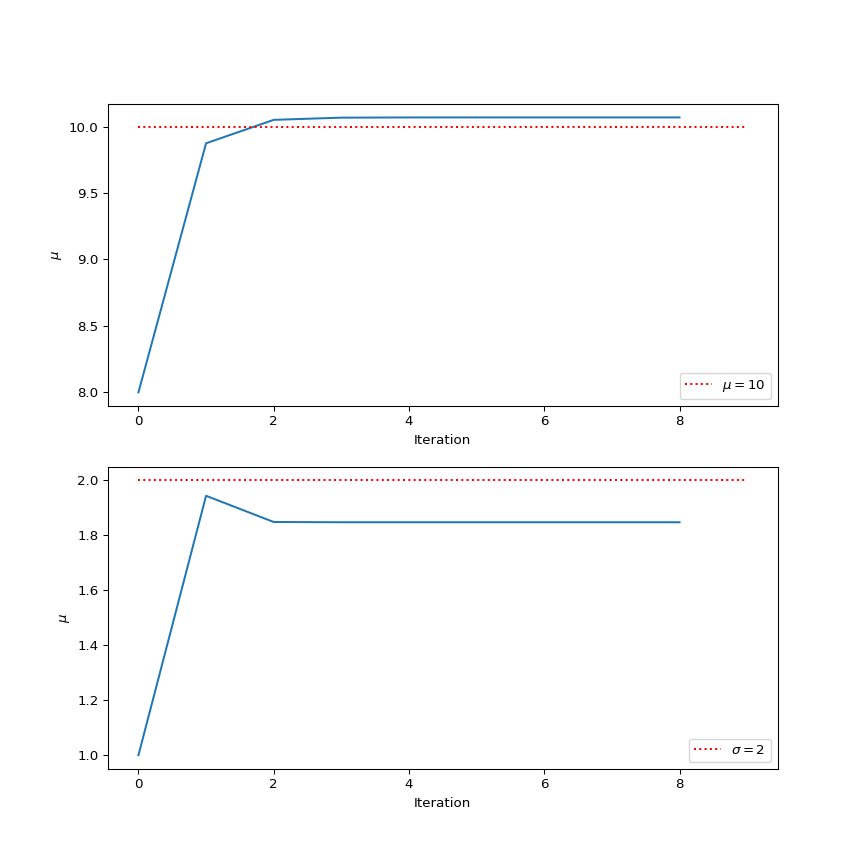
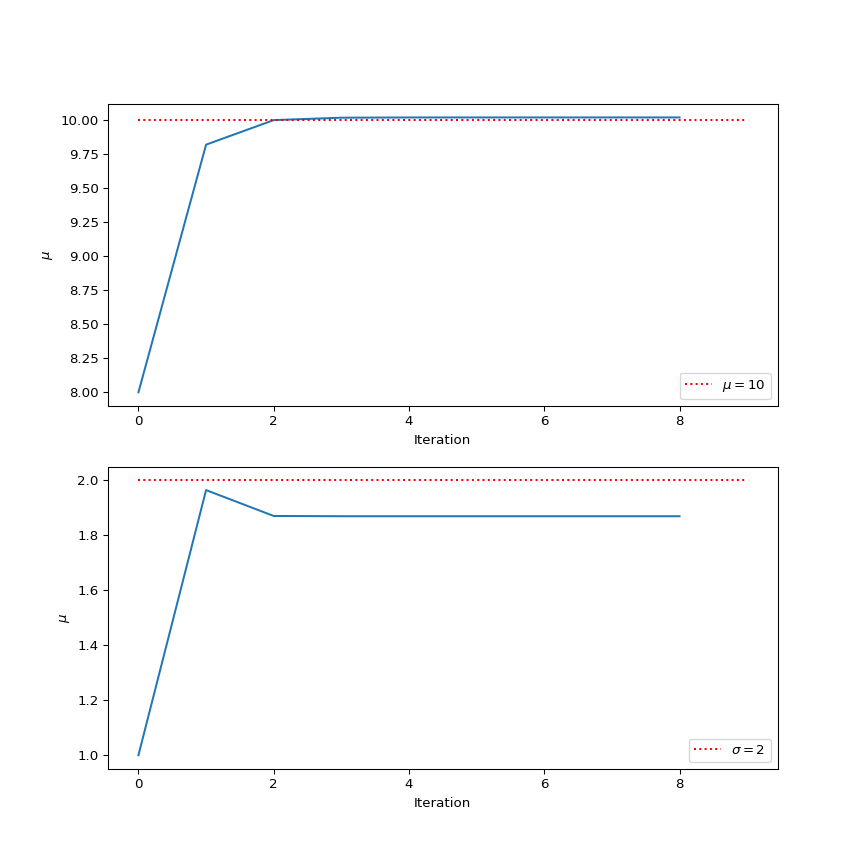
updated

diff --git a/EMalgorithm/EM_algorithm.md b/EMalgorithm/EM_algorithm.md
@@ -1,4 +1,4 @@
-# EM algorithm Template Code
+# EM algorithm Template Code I
 
 
 ## Suppose we have a sample of 1000 from a normal distribution with a mean of 10 and a standard deviation of 2, and 100 of the samples are considered missing data. Now we want to estimate distribution parameters using EM algorithm.
@@ -20,7 +20,6 @@ x = stats.norm.rvs(size = n, loc = 10, scale = 2,
 Missing = np.random.choice(np.arange(0, n), size = m) 
 x[Missing] = np.nan
 
-
 def EM(dat, mu0, sd0, tol = 1e-6, iter = 2e+3): 
     x_impute = dat.copy()
     k = 0
@@ -40,14 +39,10 @@ def EM(dat, mu0, sd0, tol = 1e-6, iter = 2e+3):
             break
     return dict(Mean_estimate = muk, STD_esimate = sdd, Num_Iteration = k + 1)
 
-
-
 # define Initial values
 mu0 = 8
 sd0 = 1
-
 result = EM(dat = x, mu0 = mu0, sd0 = sd0)
-    
 print(f"""
       Estimate of mu: {result['Mean_estimate'][-1]}, \n 
       Estimate of mu: {result['STD_esimate'][-1]}, \n
@@ -56,9 +51,9 @@ print(f"""
 ```
 
 
-          Estimate of mu: 10.06881465116522, 
+          Estimate of mu: 10.021231568285625, 
      
-          Estimate of mu: 1.8474510490957459, 
+          Estimate of mu: 1.8693251906526613, 
 
           Number of Iteration: 9
           
@@ -99,30 +94,32 @@ x[py$Missing] <- NA
 # Define the EM algorithm function
 em_algorithm <- function(x, mu0, sigma20, tol = 1e-6) {
   n <- length(x)
+  m <- x[!is.na(x)] |> length()
   k <- 0
   mu_k <- mu0
   sigma2_k <- sigma20
+
   
   while(TRUE) {
     # E-step: Calculate the expected values of the missing data
-    x_imputed <- ifelse(is.na(x), mu_k, x)
-    
+    s1_k <- sum(x[!is.na(x)]) + (n - m) * mu_k
+    s2_k <- sum((x[!is.na(x)]) ** 2) +  (n - m) * (sigma2_k + mu_k**2)
     # M-step: Update the parameters
-    mu_k1 <- sum(x_imputed, na.rm = TRUE) / n
-    sigma2_k1 <- sum((x_imputed - mu_k1)^2, na.rm = TRUE) / n
+    mu_kplus1 <- s1_k / n
+    sigma2_kplus1 <- s2_k/n - mu_kplus1**2
     
     # Check for convergence
-    if (all(abs(c(mu_k1, sigma2_k1) - c(mu_k, sigma2_k)) < tol)) {
+    if (all(abs(c(mu_kplus1, sigma2_kplus1) - c(mu_k, sigma2_k)) < tol)) {
       break
     }
     
     # Update the parameters for the next iteration
-    mu_k <- mu_k1
-    sigma2_k <- sigma2_k1
+    mu_k <- mu_kplus1
+    sigma2_k <- sigma2_kplus1
     k <- k + 1
   }
   
-  return(list(mu = mu_k, sigma2 = sigma2_k, iter = k))
+  return(list(mu = mu_kplus1, sigma2 = sigma2_kplus1, iter = k))
 }
 
 # Run the EM algorithm
@@ -136,6 +133,6 @@ cat("Estimated mean:", result$mu, "\n",
     )
 ```
 
-    Estimated mean:10.09109
-    Estimated variance:3.100321
+    Estimated mean:10.00229
+    Estimated variance:3.994224
     Number of iterations:9
